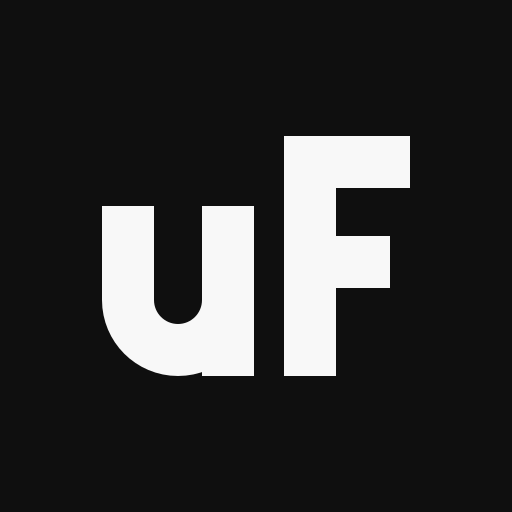
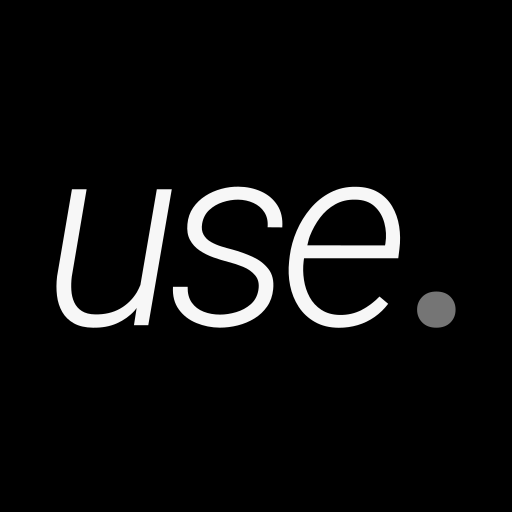
feat(brand): use the official wordmark and "use." symbol
Logo now renders the brand file's wordmark paths, and the favicon and app
icons are generated from public/favicon.svg (the brand symbol) instead of
the placeholder "uF" mark.

Changed region(s): [[0.0938, 0.25, 0.8125, 0.75], [0.8125, 0.5625, 0.9062, 0.6562]]

diff --git a/components/ui/logo.tsx b/components/ui/logo.tsx
@@ -1,25 +1,48 @@
+import { cn } from "@/lib/utils";
+
 interface LogoProps {
   size?: "sm" | "md" | "lg";
   className?: string;
 }
 
-const SIZES = {
-  sm: { fontSize: 14, lineHeight: 1.2 },
-  md: { fontSize: 18, lineHeight: 1.2 },
-  lg: { fontSize: 24, lineHeight: 1.2 },
-};
+const HEIGHTS = { sm: 20, md: 26, lg: 36 };
 
-export function Logo({ size = "md", className = "" }: LogoProps) {
-  const dims = SIZES[size];
+// Wordmark paths from the official brand file (light version).
+const USE = [
+  "M252.81 498.83C252.15 500.3 251.54 501.81 250.7 503.16C248.19 507.24 244.9 510.42 240.85 512.72C236.8 515.02 231.99 516.11 226.42 516.02C223.2 515.97 220.6 515.31 218.62 514.04C216.64 512.77 215.18 511.09 214.23 508.99C213.28 506.89 212.72 504.55 212.55 501.96C212.38 499.37 212.46 496.71 212.81 493.98L221.45 443.07H212.88L204.24 493.76C203.75 497.72 203.73 501.49 204.17 505.08C204.61 508.67 205.63 511.86 207.25 514.64C208.87 517.42 211.13 519.63 214.06 521.27C216.99 522.91 220.68 523.75 225.12 523.8C230.39 523.9 235.06 523.06 239.11 521.27C243.16 519.48 246.63 517 249.51 513.8C249.93 513.34 250.25 512.78 250.64 512.3L249.07 522.33H257.42L271.12 443.08H262.4L252.82 498.85L252.81 498.83Z",
+  "M292.97 455.14C295.17 453.09 297.77 451.58 300.77 450.6C303.77 449.62 306.76 449.14 309.74 449.14C313.01 449.19 316 449.84 318.71 451.08C321.42 452.32 323.54 454.13 325.08 456.5C326.62 458.87 327.24 461.79 326.95 465.25L335.52 465.32C335.86 460.14 334.89 455.81 332.59 452.32C330.29 448.83 327.16 446.18 323.18 444.37C319.2 442.56 314.79 441.64 309.96 441.59C306.69 441.54 303.37 441.97 300 442.87C296.63 443.77 293.52 445.14 290.66 446.97C287.8 448.8 285.44 451.08 283.56 453.82C281.68 456.55 280.57 459.75 280.23 463.42C279.89 467.03 280.38 470.09 281.69 472.58C283 475.07 284.88 477.13 287.29 478.77C289.7 480.41 292.39 481.75 295.35 482.8C298.31 483.85 301.22 484.74 304.1 485.47C306.88 486.15 309.74 487.09 312.67 488.29C315.6 489.49 317.97 491.17 319.77 493.34C321.57 495.51 322.19 498.36 321.6 501.87C321.01 505.29 319.51 508.05 317.1 510.15C314.69 512.25 311.86 513.78 308.64 514.73C305.42 515.68 302.29 516.16 299.26 516.16C295.79 516.16 292.61 515.6 289.7 514.48C286.79 513.36 284.49 511.6 282.78 509.21C281.07 506.82 280.27 503.74 280.36 499.98H271.79C271.5 505.25 272.63 509.65 275.2 513.16C277.77 516.67 281.18 519.31 285.45 521.07C289.72 522.83 294.25 523.73 299.04 523.78C302.56 523.78 306.06 523.34 309.55 522.46C313.04 521.58 316.28 520.23 319.26 518.39C322.24 516.55 324.7 514.23 326.66 511.4C328.62 508.57 329.79 505.22 330.18 501.37C330.67 496.49 329.74 492.54 327.4 489.54C325.06 486.54 321.97 484.17 318.13 482.44C314.29 480.71 310.38 479.3 306.37 478.23C304.42 477.74 302.33 477.16 300.11 476.47C297.89 475.79 295.84 474.91 293.96 473.83C292.08 472.75 290.64 471.35 289.64 469.62C288.64 467.89 288.36 465.73 288.8 463.14C289.39 459.87 290.78 457.21 292.97 455.16V455.14Z",
+  "M399.62 453.09C397.59 449.62 394.83 446.85 391.34 444.78C387.85 442.71 383.54 441.64 378.41 441.59C372.99 441.49 368.05 442.6 363.58 444.92C359.11 447.24 355.23 450.35 351.93 454.26C348.63 458.17 345.96 462.51 343.91 467.3C341.86 472.09 340.52 476.92 339.88 481.8L339.51 485.02C338.97 489.85 339.17 494.57 340.1 499.16C341.03 503.75 342.7 507.89 345.12 511.58C347.54 515.27 350.7 518.21 354.61 520.41C358.52 522.61 363.16 523.73 368.53 523.78C372.39 523.78 376.07 523.26 379.59 522.21C383.11 521.16 386.37 519.59 389.37 517.49C392.37 515.39 395.02 512.83 397.32 509.8L392.27 505.55C389.1 508.82 385.6 511.45 381.8 513.42C378 515.39 373.74 516.36 369.06 516.31C364.86 516.21 361.31 515.22 358.4 513.34C355.49 511.46 353.21 508.99 351.55 505.94C349.89 502.89 348.78 499.53 348.22 495.87C347.66 492.21 347.6 488.57 348.04 484.96L348.27 483.28H403.19L403.85 477.93C404.44 473.44 404.39 469.04 403.7 464.75C403.01 460.46 401.66 456.57 399.63 453.1L399.62 453.09ZM395.62 474.7L395.4 475.8L350.12 475.73C350.63 473.93 350.89 472.17 351.6 470.34C353.11 466.46 355.09 462.89 357.53 459.65C359.97 456.41 362.91 453.81 366.36 451.89C369.81 449.97 373.72 449.05 378.12 449.14C382.76 449.19 386.47 450.48 389.25 453.02C392.03 455.56 393.95 458.78 395 462.69C396.05 466.6 396.26 470.6 395.62 474.7Z",
+];
 
+const FINDASH = [
+  "M425.98 415.66H412.29V522.31H430.67V476.9H474.18V462.32H430.67V430.31H480.26V415.66H430.67H425.98Z",
+  "M504.25 443.06H486.52V522.31H504.25V443.06Z",
+  "M495.46 412.88C492.29 412.88 489.81 413.77 488.03 415.55C486.25 417.33 485.36 419.57 485.36 422.25C485.36 424.93 486.25 427.08 488.03 428.84C489.81 430.6 492.29 431.48 495.46 431.48C498.63 431.48 501.05 430.6 502.86 428.84C504.67 427.08 505.57 424.88 505.57 422.25C505.57 419.62 504.67 417.33 502.86 415.55C501.05 413.77 498.59 412.88 495.46 412.88Z",
+  "M574.42 448.26C572.2 445.92 569.54 444.22 566.44 443.17C563.34 442.12 559.88 441.6 556.08 441.6C551.34 441.6 547.05 442.52 543.19 444.35C539.33 446.18 536.02 448.78 533.27 452.15C533.12 452.33 533.02 452.57 532.87 452.76L532.28 443.07H515.65V522.32H533.3V466.84C533.94 465.53 534.4 464.05 535.24 462.92C536.88 460.72 538.89 458.99 541.28 457.72C543.67 456.45 546.38 455.82 549.41 455.82C552.44 455.82 555.06 456.3 557.14 457.25C559.22 458.2 560.8 459.79 561.9 462.01C563 464.23 563.55 467.25 563.55 471.06V522.33H581.28V471.13C581.28 465.71 580.69 461.13 579.52 457.4C578.35 453.66 576.65 450.62 574.43 448.28L574.42 448.26Z",
+  "M639.82 450.81C637.55 448.15 635 445.92 631.98 444.37C628.37 442.51 624.17 441.59 619.38 441.59C614.59 441.59 610.2 442.55 606.34 444.48C602.48 446.41 599.21 449.17 596.53 452.76C593.85 456.35 591.79 460.62 590.38 465.58C588.97 470.54 588.26 476.02 588.26 482.02V483.56C588.26 489.32 588.97 494.66 590.38 499.56C591.79 504.46 593.85 508.73 596.53 512.34C599.21 515.95 602.48 518.76 606.31 520.76C610.14 522.76 614.45 523.76 619.24 523.76C624.03 523.76 628.31 522.83 631.95 520.98C635.33 519.25 638.19 516.78 640.63 513.7L641.51 522.29H657.55V409.78H639.82V450.79V450.81ZM633.6 506.85C631.01 508.61 627.72 509.49 623.71 509.49C620.54 509.49 617.81 508.82 615.54 507.48C613.27 506.14 611.43 504.28 610.01 501.91C608.59 499.54 607.56 496.8 606.9 493.67C606.24 490.54 605.91 487.18 605.91 483.56V482.02C605.91 478.41 606.25 475.01 606.94 471.84C607.63 468.67 608.69 465.88 610.13 463.49C611.57 461.1 613.41 459.22 615.66 457.85C617.91 456.48 620.64 455.8 623.86 455.8C626.89 455.8 629.51 456.32 631.73 457.37C633.95 458.42 635.82 459.88 637.33 461.76C638.37 463.05 639.07 464.68 639.82 466.26V499.42C639.78 499.51 639.75 499.61 639.71 499.7C638.22 502.7 636.18 505.08 633.59 506.84L633.6 506.85Z",
+  "M730.61 504V468.77C730.61 462.72 729.28 457.67 726.62 453.64C723.96 449.61 720.32 446.6 715.71 444.59C711.1 442.59 705.81 441.59 699.85 441.59C694.87 441.59 690.38 442.25 686.37 443.57C682.36 444.89 678.92 446.7 676.04 448.99C673.16 451.29 670.96 453.9 669.45 456.83C667.94 459.76 667.18 462.79 667.18 465.91H684.76C684.76 463.81 685.35 461.93 686.52 460.27C687.69 458.61 689.33 457.29 691.43 456.31C693.53 455.33 696.02 454.85 698.9 454.85C702.03 454.85 704.63 455.41 706.7 456.53C708.77 457.65 710.33 459.24 711.35 461.29C712.37 463.34 712.89 465.78 712.89 468.61V474.1H701.61C695.85 474.1 690.72 474.67 686.23 475.82C681.74 476.97 677.94 478.64 674.84 480.84C671.74 483.04 669.4 485.76 667.81 489.01C666.22 492.26 665.43 495.98 665.43 500.18C665.43 504.67 666.58 508.69 668.87 512.23C671.17 515.77 674.34 518.58 678.39 520.65C682.44 522.73 687.06 523.76 692.23 523.76C696.33 523.76 699.96 523.1 703.11 521.78C706.26 520.46 708.97 518.76 711.24 516.69C712.17 515.84 712.72 514.89 713.5 514.01C713.55 514.35 713.53 514.67 713.58 515.01C714.04 517.96 714.69 520.39 715.52 522.3H733.61V521.13C732.63 519.03 731.89 516.55 731.38 513.7C730.87 510.85 730.61 507.61 730.61 503.99V504ZM705.16 507.55C702.45 509.04 699.29 509.78 695.67 509.78C692.98 509.78 690.7 509.29 688.82 508.32C686.94 507.35 685.51 505.99 684.54 504.25C683.57 502.51 683.08 500.6 683.08 498.5C683.08 496.4 683.5 494.52 684.33 492.86C685.16 491.2 686.41 489.78 688.07 488.61C689.73 487.44 691.81 486.55 694.3 485.94C696.79 485.33 699.67 485.02 702.94 485.02H712.9V499.72C712.52 500.49 712.16 501.26 711.58 502.05C710.02 504.22 707.88 506.05 705.17 507.54L705.16 507.55Z",
+  "M789.43 480.52C785.06 478.54 779.85 476.92 773.79 475.65C770.57 474.97 767.89 474.26 765.77 473.53C763.65 472.8 761.97 472 760.75 471.15C759.53 470.3 758.66 469.34 758.15 468.29C757.64 467.24 757.38 466.06 757.38 464.74C757.38 462.93 757.86 461.27 758.81 459.76C759.76 458.25 761.23 457.01 763.2 456.06C765.17 455.11 767.68 454.63 770.71 454.63C773.74 454.63 776.52 455.2 778.62 456.35C780.72 457.5 782.29 458.99 783.34 460.82C784.39 462.65 784.91 464.62 784.91 466.72H802.56C802.56 461.98 801.29 457.72 798.75 453.94C796.21 450.16 792.56 447.15 787.8 444.93C783.04 442.71 777.34 441.6 770.7 441.6C766.01 441.6 761.78 442.23 757.99 443.5C754.21 444.77 751 446.5 748.36 448.7C745.72 450.9 743.7 453.44 742.28 456.32C740.86 459.2 740.16 462.25 740.16 465.48C740.16 468.71 740.84 471.73 742.21 474.27C743.58 476.81 745.51 479.01 748 480.86C750.49 482.71 753.48 484.29 756.97 485.58C760.46 486.87 764.31 487.98 768.51 488.91C773.3 489.89 776.92 490.96 779.39 492.13C781.86 493.3 783.53 494.61 784.41 496.05C785.29 497.49 785.73 499.09 785.73 500.85C785.73 502.75 785.17 504.45 784.05 505.94C782.93 507.43 781.29 508.6 779.14 509.46C776.99 510.31 774.33 510.74 771.16 510.74C768.52 510.74 765.97 510.31 763.51 509.46C761.05 508.61 758.99 507.21 757.36 505.29C755.72 503.36 754.81 500.76 754.61 497.49H737.54C737.54 501.84 738.82 506.02 741.39 510.05C743.96 514.08 747.73 517.37 752.71 519.94C757.69 522.51 763.77 523.79 770.95 523.79C775.83 523.79 780.24 523.2 784.17 522.03C788.1 520.86 791.48 519.21 794.31 517.09C797.14 514.97 799.3 512.45 800.79 509.55C802.28 506.65 803.02 503.43 803.02 499.92C803.02 495.18 801.85 491.26 799.5 488.16C797.15 485.06 793.8 482.52 789.43 480.54V480.52Z",
+  "M874.36 457.6C873.16 453.82 871.42 450.74 869.12 448.37C866.82 446 864.1 444.28 860.95 443.21C857.8 442.14 854.27 441.6 850.37 441.6C845.73 441.6 841.51 442.54 837.7 444.42C833.97 446.26 830.78 448.88 828.1 452.22V409.81H810.52V522.32H828.1V466.61C828.69 465.38 829.08 463.98 829.86 462.92C831.47 460.72 833.49 458.99 835.9 457.72C838.32 456.45 841.11 455.82 844.29 455.82C847.47 455.82 849.88 456.32 851.98 457.32C854.08 458.32 855.68 459.94 856.78 462.19C857.88 464.44 858.43 467.46 858.43 471.27V522.32H876.16V471.41C876.16 465.99 875.56 461.39 874.37 457.6H874.36Z",
+];
+
+export function Logo({ size = "md", className }: LogoProps) {
+  const height = HEIGHTS[size];
   return (
-    <div className={className} style={{ lineHeight: dims.lineHeight }}>
-      <span style={{ fontSize: dims.fontSize, fontWeight: 300, color: "#9CA3AF" }}>
-        use
-      </span>
-      <span style={{ fontSize: dims.fontSize, fontWeight: 700, color: "#F8F8F8" }}>
-        Findash
-      </span>
-    </div>
+    <svg
+      role="img"
+      aria-label="useFindash"
+      viewBox="202 408 676 118"
+      height={height}
+      width={(height * 676) / 118}
+      className={cn("shrink-0", className)}
+      xmlns="http://www.w3.org/2000/svg"
+    >
+      {USE.map((d) => (
+        <path key={d.slice(0, 16)} d={d} fill="#757575" />
+      ))}
+      {FINDASH.map((d) => (
+        <path key={d.slice(0, 16)} d={d} fill="#F7F7F7" />
+      ))}
+    </svg>
   );
 }

diff --git a/scripts/generate-favicon.js b/scripts/generate-favicon.js
@@ -2,26 +2,27 @@ const fs = require("fs");
 const path = require("path");
 const sharp = require("sharp");
 
-const OUT_DIR = path.join(__dirname, "..", "public");
-const BG = "#0F0F0F";
-const FG = "#F8F8F8";
+const PUBLIC_DIR = path.join(__dirname, "..", "public");
+const SOURCE = path.join(PUBLIC_DIR, "favicon.svg");
 
-// "uF" drawn as strokes on a 512 grid so rendering never depends on installed fonts.
-function markSvg(size) {
-  return `<svg xmlns="http://www.w3.org/2000/svg" width="${size}" height="${size}" viewBox="0 0 512 512">
-  <rect width="512" height="512" fill="${BG}"/>
-  <g transform="translate(-2 0)" fill="none" stroke="${FG}" stroke-width="52">
-    <path d="M130 206 V300 A50 50 0 0 0 230 300 V206"/>
-    <path d="M230 290 V376"/>
-    <path d="M312 136 V376"/>
-    <path d="M286 162 H412"/>
-    <path d="M286 262 H392"/>
-  </g>
-</svg>`;
+// public/favicon.svg is the brand symbol (rounded square + "use." glyph paths),
+// so rendering never depends on fonts installed on the build machine.
+const source = fs.readFileSync(SOURCE, "utf8");
+const [roundedSquare, ...glyphs] = source.match(/<path [^>]*\/>/g);
+const viewBox = source.match(/viewBox="([^"]+)"/)[1];
+const [x, y, w, h] = viewBox.split(/\s+/).map(Number);
+
+function sized(svg, size) {
+  return svg.replace("<svg ", `<svg width="${size}" height="${size}" `);
 }
 
-function renderPng(size) {
-  return sharp(Buffer.from(markSvg(size))).png().toBuffer();
+// Tab favicons keep the rounded square; app icons are full-bleed because
+// iOS and Android apply their own mask.
+const roundedSvg = source;
+const fullBleedSvg = `<svg xmlns="http://www.w3.org/2000/svg" viewBox="${viewBox}"><rect x="${x}" y="${y}" width="${w}" height="${h}" fill="#000000"/>${glyphs.join("")}</svg>`;
+
+function render(svg, size) {
+  return sharp(Buffer.from(sized(svg, size))).png().toBuffer();
 }
 
 // ICO container holding PNG payloads (supported by every current browser).
@@ -37,8 +38,6 @@ function buildIco(images) {
     const entry = Buffer.alloc(16);
     entry.writeUInt8(size >= 256 ? 0 : size, 0);
     entry.writeUInt8(size >= 256 ? 0 : size, 1);
-    entry.writeUInt8(0, 2);
-    entry.writeUInt8(0, 3);
     entry.writeUInt16LE(1, 4);
     entry.writeUInt16LE(32, 6);
     entry.writeUInt32LE(data.length, 8);
@@ -51,22 +50,21 @@ function buildIco(images) {
 }
 
 async function main() {
-  fs.mkdirSync(OUT_DIR, { recursive: true });
+  if (!roundedSquare || glyphs.length === 0) throw new Error("favicon.svg has no paths");
 
-  const pngs = {
-    "favicon-16x16.png": 16,
-    "favicon-32x32.png": 32,
-    "apple-touch-icon.png": 180,
-    "icon-192x192.png": 192,
-    "icon-512x512.png": 512,
-  };
-
-  for (const [file, size] of Object.entries(pngs)) {
-    fs.writeFileSync(path.join(OUT_DIR, file), await renderPng(size));
+  const outputs = [
+    ["favicon-16x16.png", roundedSvg, 16],
+    ["favicon-32x32.png", roundedSvg, 32],
+    ["apple-touch-icon.png", fullBleedSvg, 180],
+    ["icon-192x192.png", fullBleedSvg, 192],
+    ["icon-512x512.png", fullBleedSvg, 512],
+  ];
+  for (const [file, svg, size] of outputs) {
+    fs.writeFileSync(path.join(PUBLIC_DIR, file), await render(svg, size));
   }
 
-  const icoImages = await Promise.all([16, 32, 48].map(async (size) => ({ size, data: await renderPng(size) })));
-  fs.writeFileSync(path.join(OUT_DIR, "favicon.ico"), buildIco(icoImages));
+  const icoImages = await Promise.all([16, 32, 48].map(async (size) => ({ size, data: await render(roundedSvg, size) })));
+  fs.writeFileSync(path.join(PUBLIC_DIR, "favicon.ico"), buildIco(icoImages));
 
   console.log("Favicons generated in public/");
 }

diff --git a/components/auth-provider.tsx b/components/auth-provider.tsx
@@ -2,6 +2,7 @@
 
 import { useEffect, useState } from "react";
 import { useRouter, usePathname } from "next/navigation";
+import { Logo } from "@/components/ui/logo";
 import { createClient } from "@/lib/supabase/client";
 
 interface AuthProviderProps {
@@ -53,12 +54,7 @@ export function AuthProvider({ children }: AuthProviderProps) {
       >
         {/* Logo */}
         <div style={{ marginBottom: "32px" }}>
-          <span style={{ fontSize: "24px", fontWeight: 300, color: "#9CA3AF" }}>
-            use
-          </span>
-          <span style={{ fontSize: "24px", fontWeight: 700, color: "#F8F8F8" }}>
-            Findash
-          </span>
+          <Logo size="lg" />
         </div>
 
         {/* Spinner */}

diff --git a/app/layout.tsx b/app/layout.tsx
@@ -8,6 +8,7 @@ export const metadata: Metadata = {
   description: "Gestão Inteligente para Lojistas de iPhone",
   icons: {
     icon: [
+      { url: "/favicon.svg", type: "image/svg+xml" },
       { url: "/favicon.ico", sizes: "any" },
       { url: "/favicon-32x32.png", sizes: "32x32", type: "image/png" },
       { url: "/favicon-16x16.png", sizes: "16x16", type: "image/png" },
